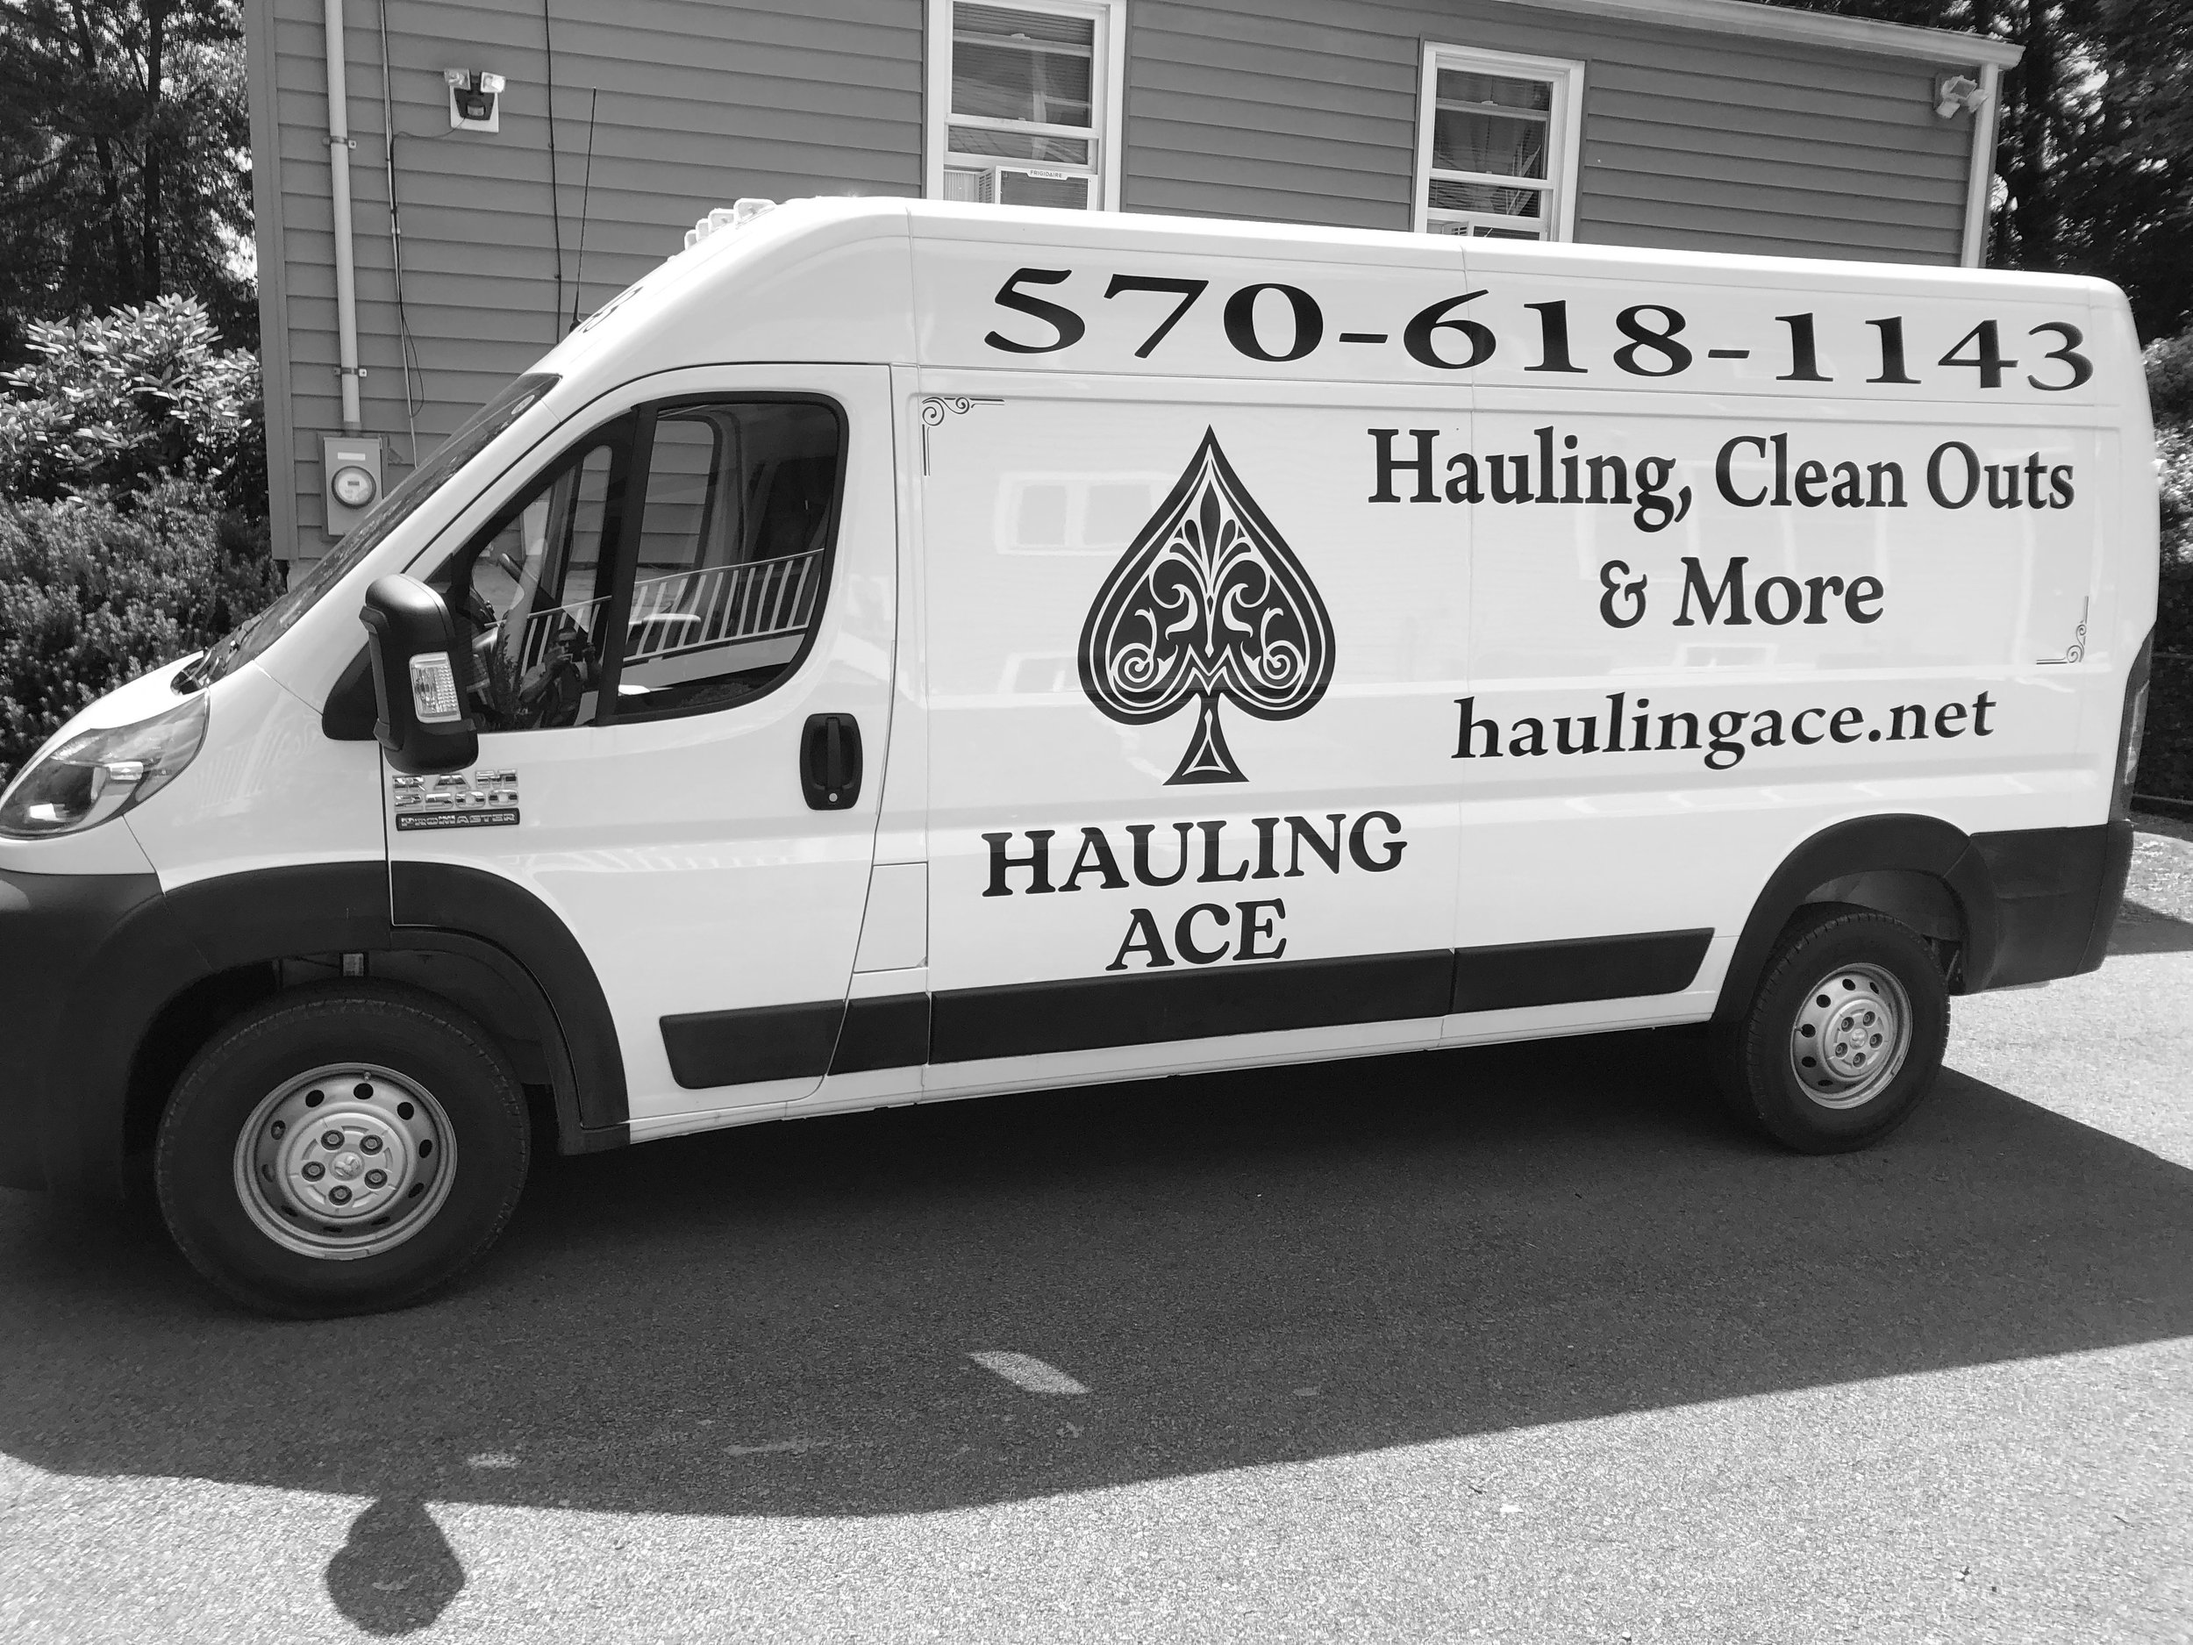
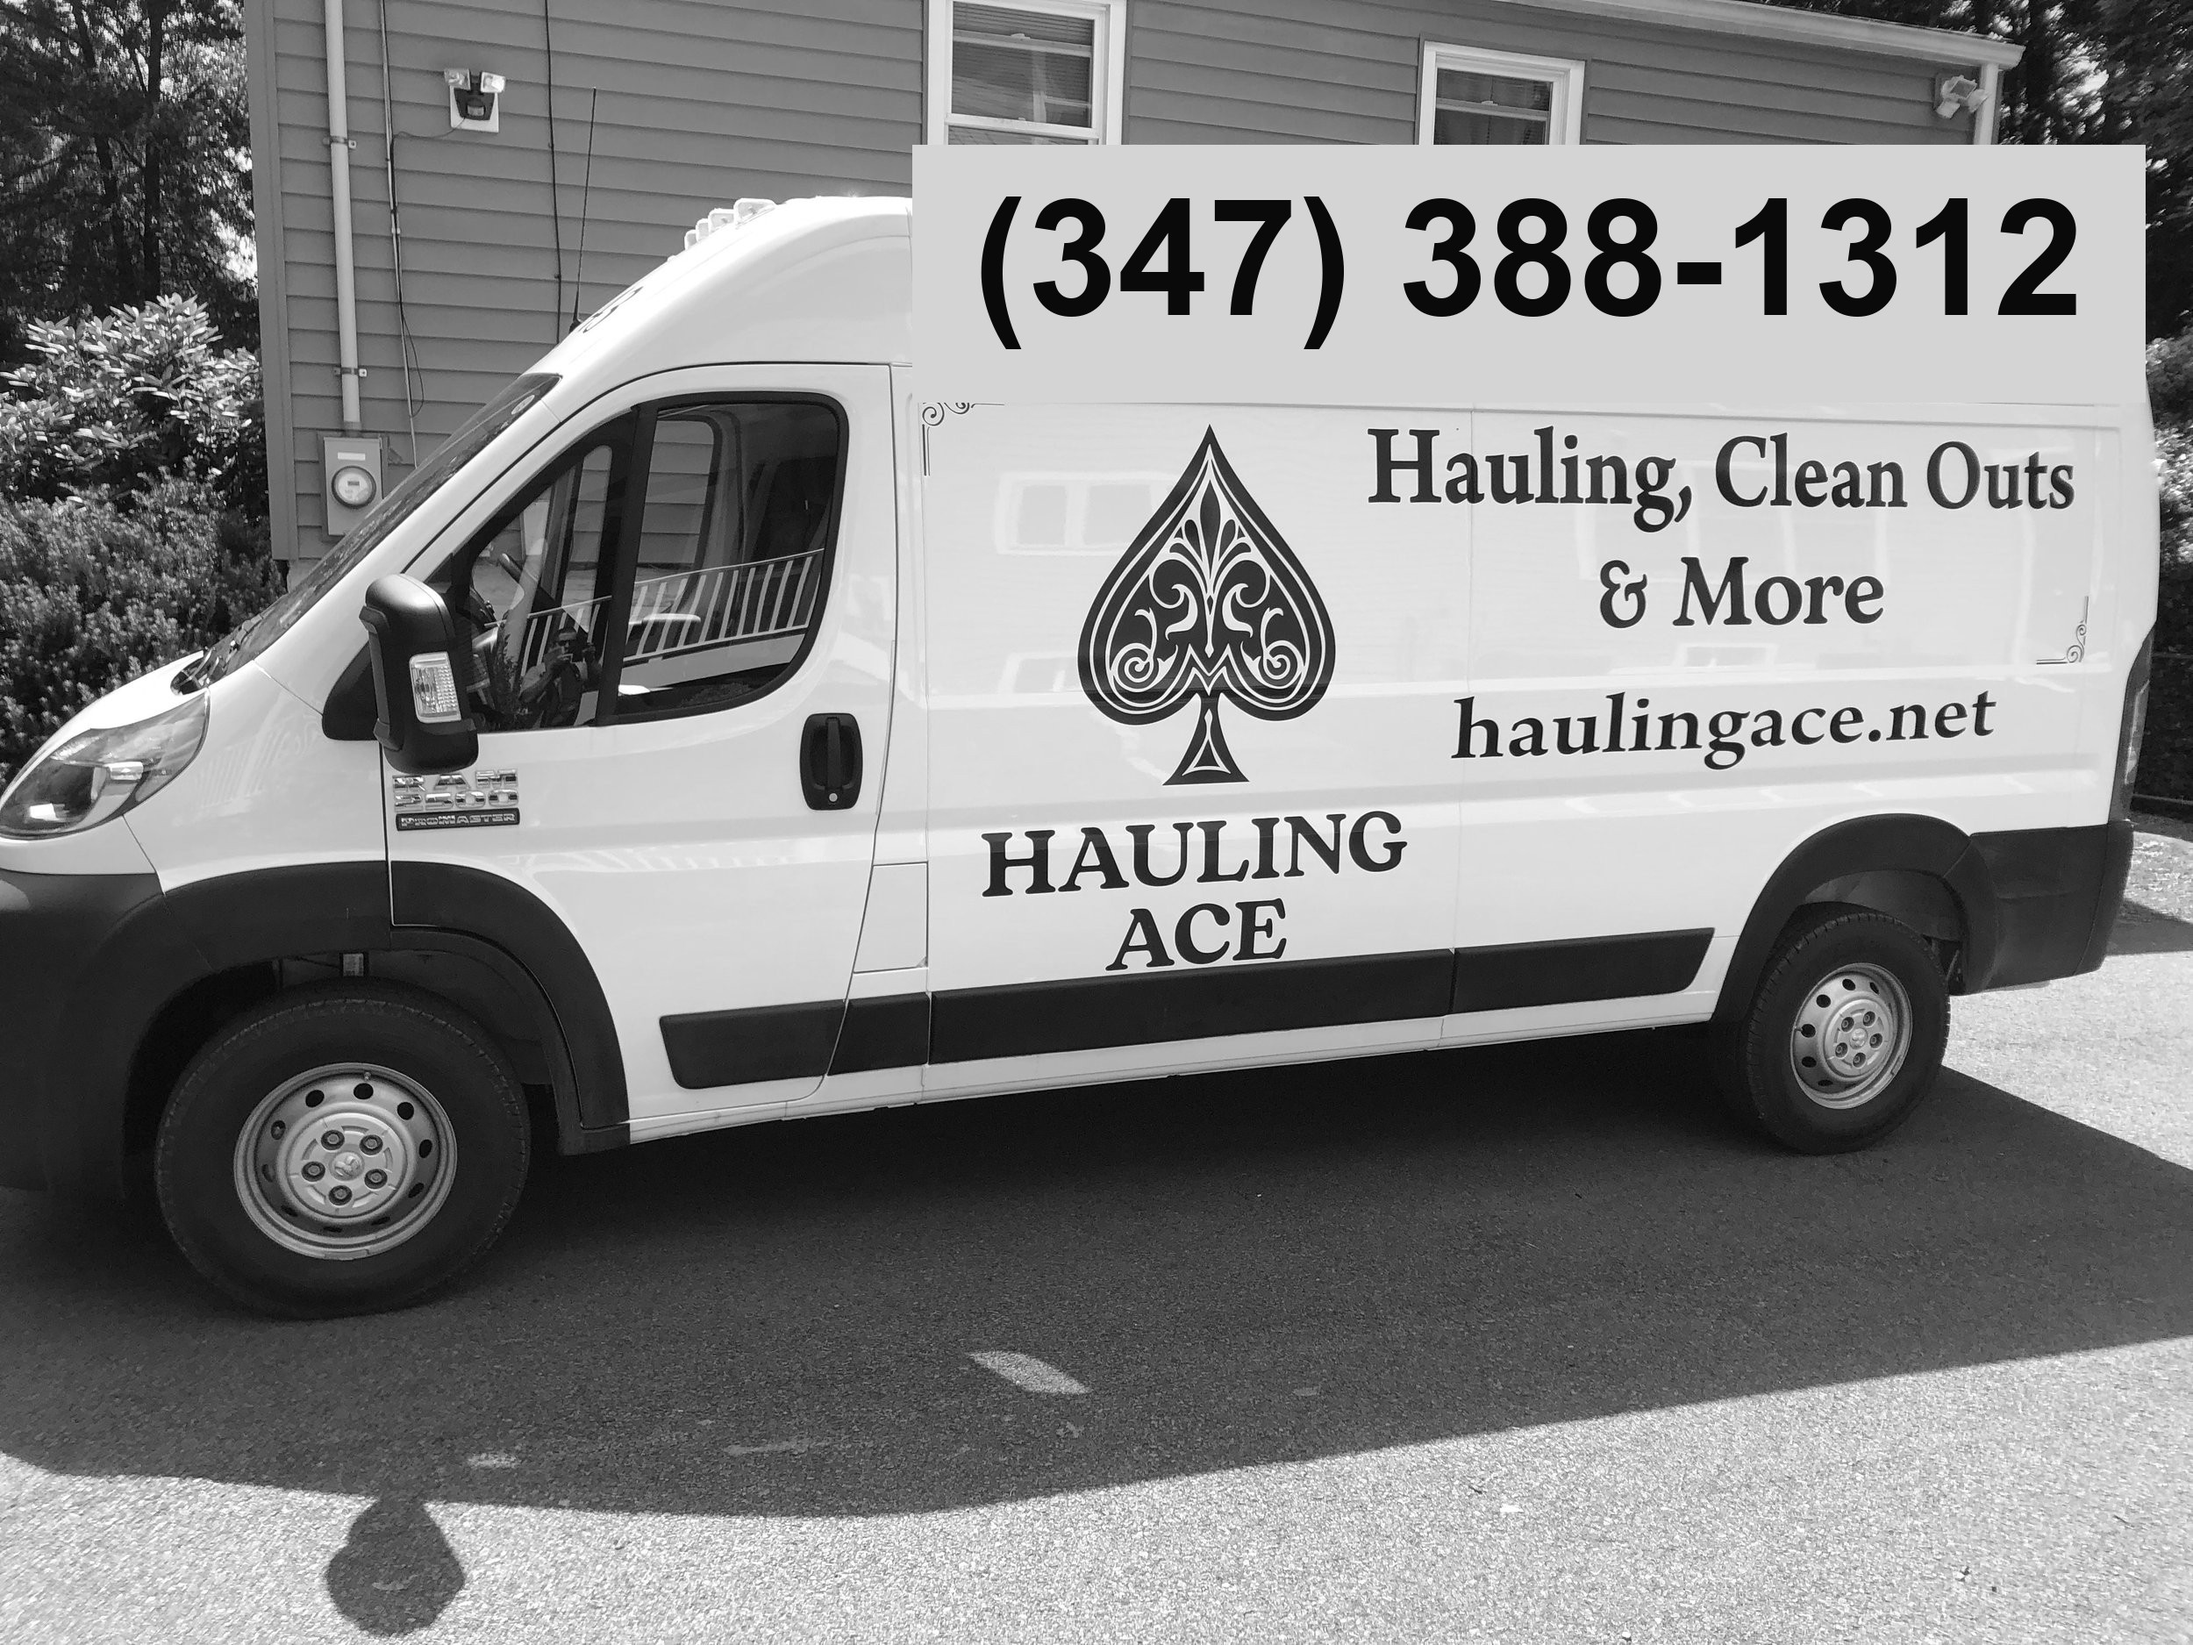
Update phone number to (347) 388-1312 sitewide + truck image
- Replace 570-618-1143 with (347) 388-1312 across all 7 source files
- Edit truck.jpg to paint over old number and render new one in place

Changed region(s): [[0.4056, 0.0619, 0.9984, 0.2475]]

diff --git a/src/app/services/page.tsx b/src/app/services/page.tsx
@@ -142,7 +142,7 @@ export default function ServicesPage() {
                       </ul>
                       <div className="mt-8 pt-6 border-t border-white/10">
                         <a
-                          href="tel:+15706181143"
+                          href="tel:+13473881312"
                           className="flex items-center gap-2 text-gold font-semibold hover:underline"
                         >
                           <Phone size={16} />

diff --git a/src/app/contact/page.tsx b/src/app/contact/page.tsx
@@ -8,8 +8,8 @@ export const metadata: Metadata = {
     'Get a free quote from Hauling Ace. Call us or fill out our quick form for moving, hauling, clean-outs, and more.',
 }
 
-const PHONE = '570-618-1143'
-const PHONE_HREF = 'tel:+15706181143'
+const PHONE = '(347) 388-1312'
+const PHONE_HREF = 'tel:+13473881312'
 const EMAIL = 'haulingacecompany@gmail.com'
 
 export default function ContactPage() {

diff --git a/src/components/ServiceAreas.tsx b/src/components/ServiceAreas.tsx
@@ -32,7 +32,7 @@ export default function ServiceAreas() {
               we can get there, we will.
             </p>
             <a
-              href="tel:+15706181143"
+              href="tel:+13473881312"
               className="inline-block bg-ink hover:bg-charcoal text-white font-bold px-7 py-3.5 rounded-full transition-colors"
             >
               Call to Confirm Your Area

diff --git a/src/components/Navbar.tsx b/src/components/Navbar.tsx
@@ -5,8 +5,8 @@ import Link from 'next/link'
 import Image from 'next/image'
 import { Phone, Menu, X } from 'lucide-react'
 
-const PHONE = '570-618-1143'
-const PHONE_HREF = 'tel:+15706181143'
+const PHONE = '(347) 388-1312'
+const PHONE_HREF = 'tel:+13473881312'
 
 export default function Navbar() {
   const [scrolled, setScrolled] = useState(false)

diff --git a/src/components/Footer.tsx b/src/components/Footer.tsx
@@ -2,8 +2,8 @@ import Image from 'next/image'
 import Link from 'next/link'
 import { Phone, Mail, MapPin } from 'lucide-react'
 
-const PHONE = '570-618-1143'
-const PHONE_HREF = 'tel:+15706181143'
+const PHONE = '(347) 388-1312'
+const PHONE_HREF = 'tel:+13473881312'
 const EMAIL = 'haulingacecompany@gmail.com'
 
 export default function Footer() {

diff --git a/src/components/QuoteForm.tsx b/src/components/QuoteForm.tsx
@@ -85,7 +85,7 @@ export default function QuoteForm() {
             name="phone"
             type="tel"
             required
-            placeholder="(570) 000-0000"
+            placeholder="(347) 000-0000"
             value={form.phone}
             onChange={handleChange}
             className={inputClass}

diff --git a/src/components/Hero.tsx b/src/components/Hero.tsx
@@ -2,8 +2,8 @@ import Link from 'next/link'
 import Image from 'next/image'
 import { Phone, ArrowDown } from 'lucide-react'
 
-const PHONE = '570-618-1143'
-const PHONE_HREF = 'tel:+15706181143'
+const PHONE = '(347) 388-1312'
+const PHONE_HREF = 'tel:+13473881312'
 
 export default function Hero() {
   return (

diff --git a/src/components/ContactCTA.tsx b/src/components/ContactCTA.tsx
@@ -1,8 +1,8 @@
 import Link from 'next/link'
 import { Phone } from 'lucide-react'
 
-const PHONE = '570-618-1143'
-const PHONE_HREF = 'tel:+15706181143'
+const PHONE = '(347) 388-1312'
+const PHONE_HREF = 'tel:+13473881312'
 
 export default function ContactCTA() {
   return (
